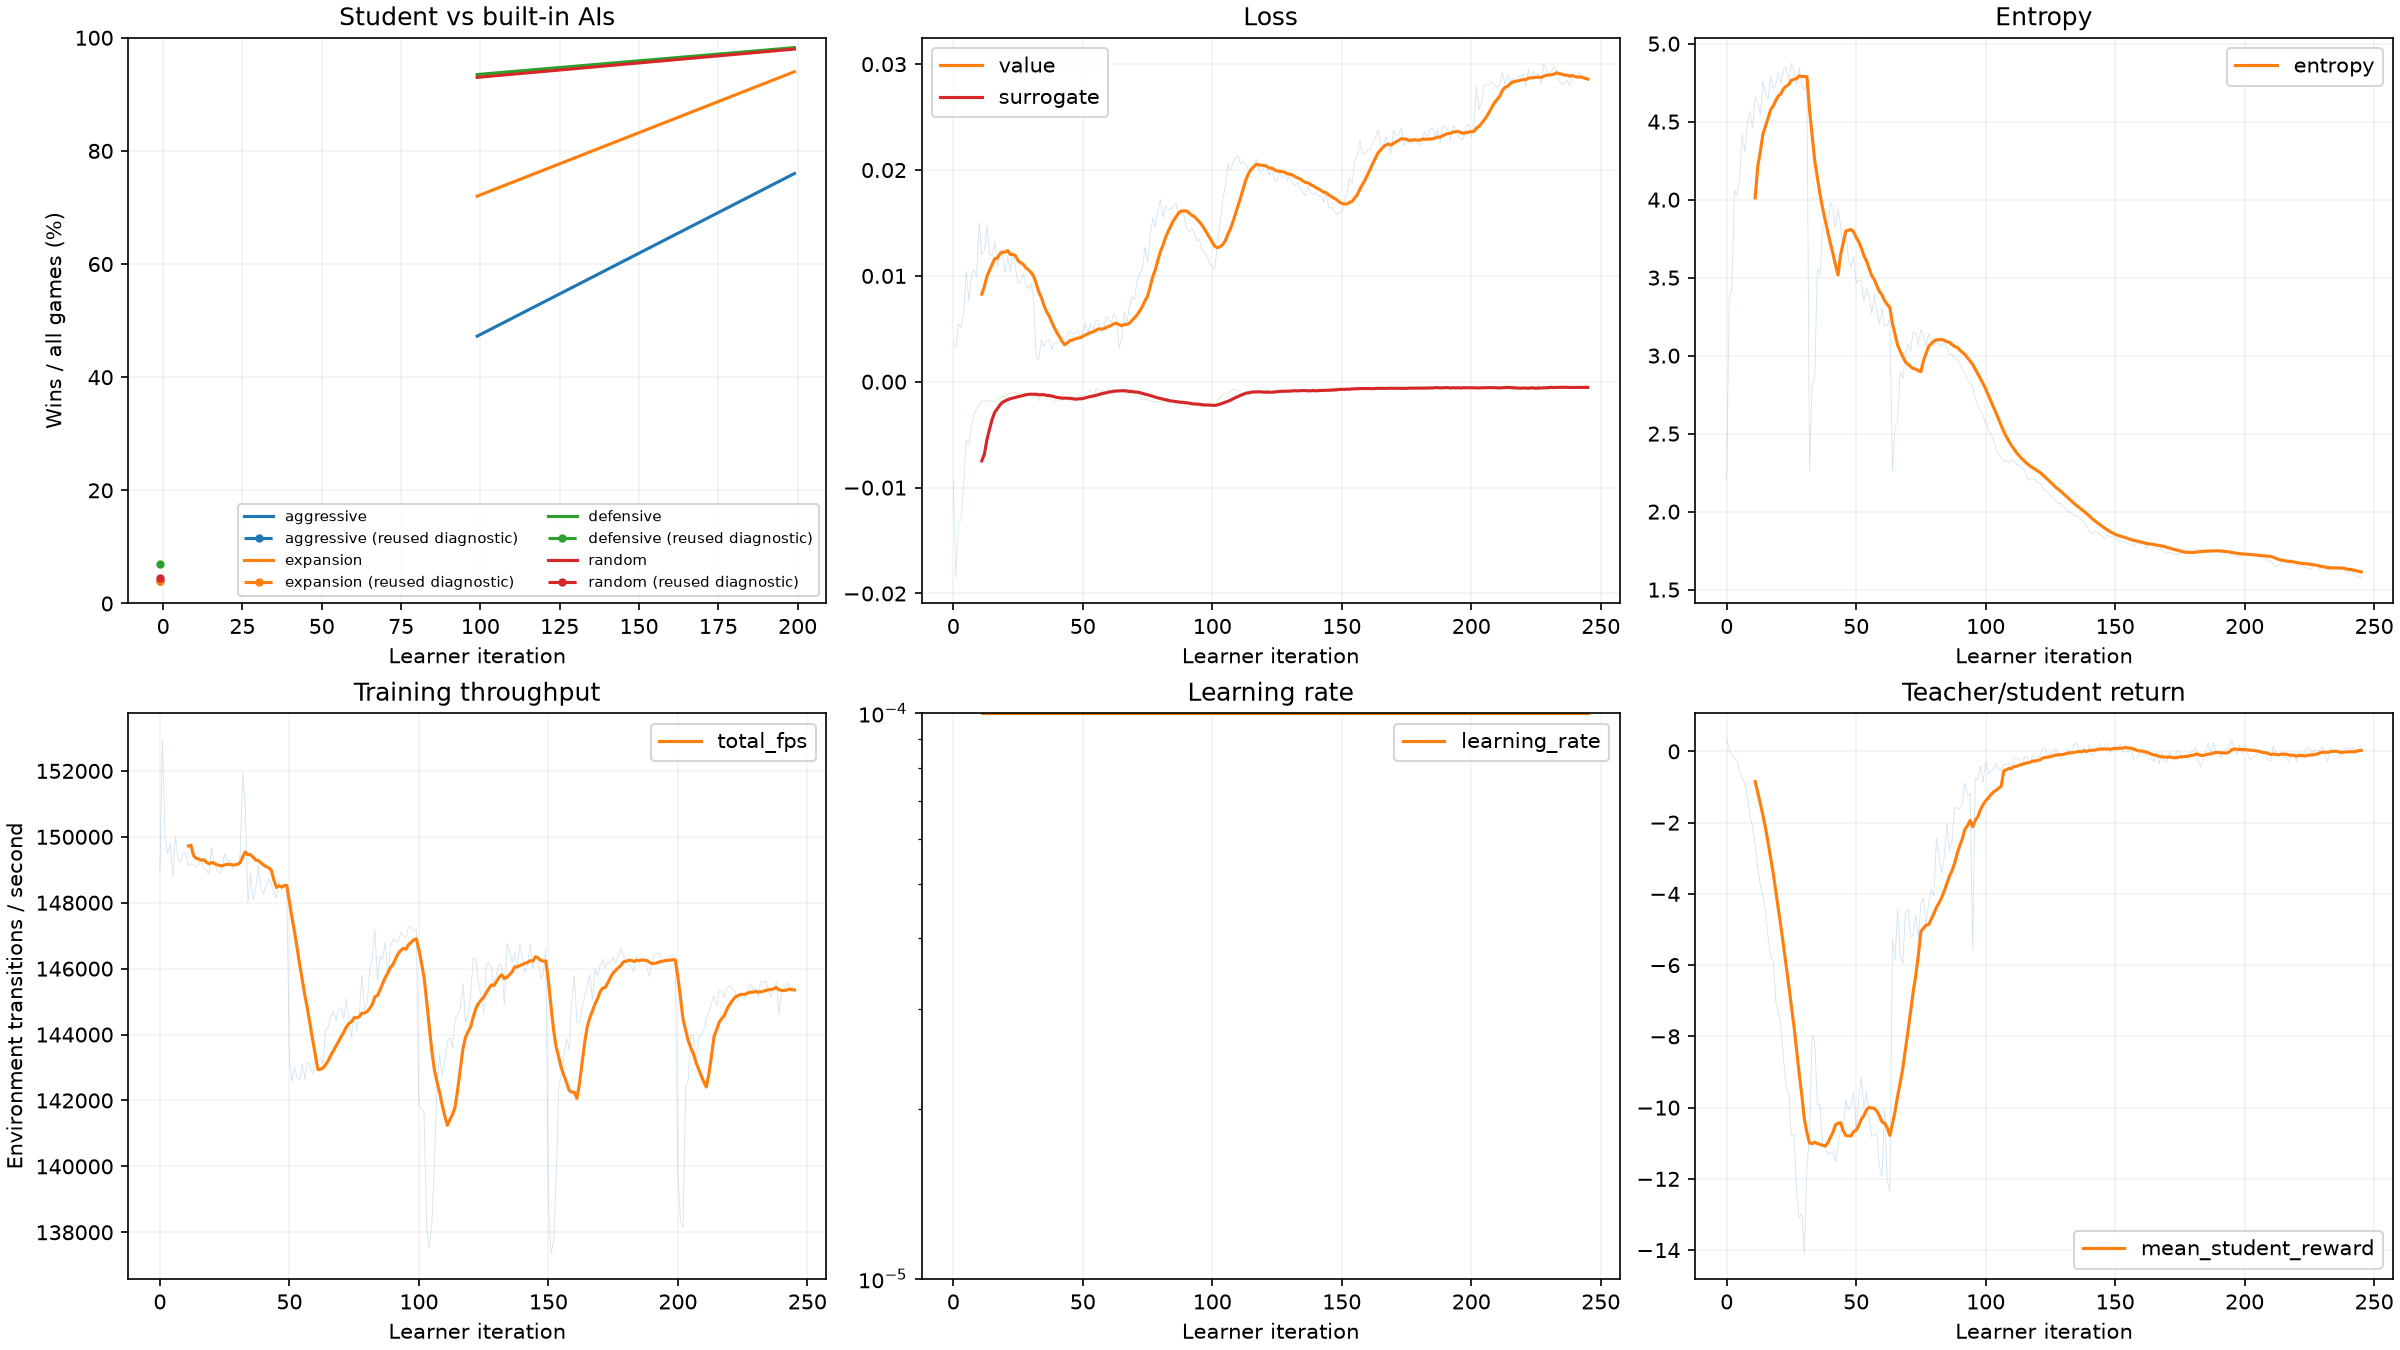
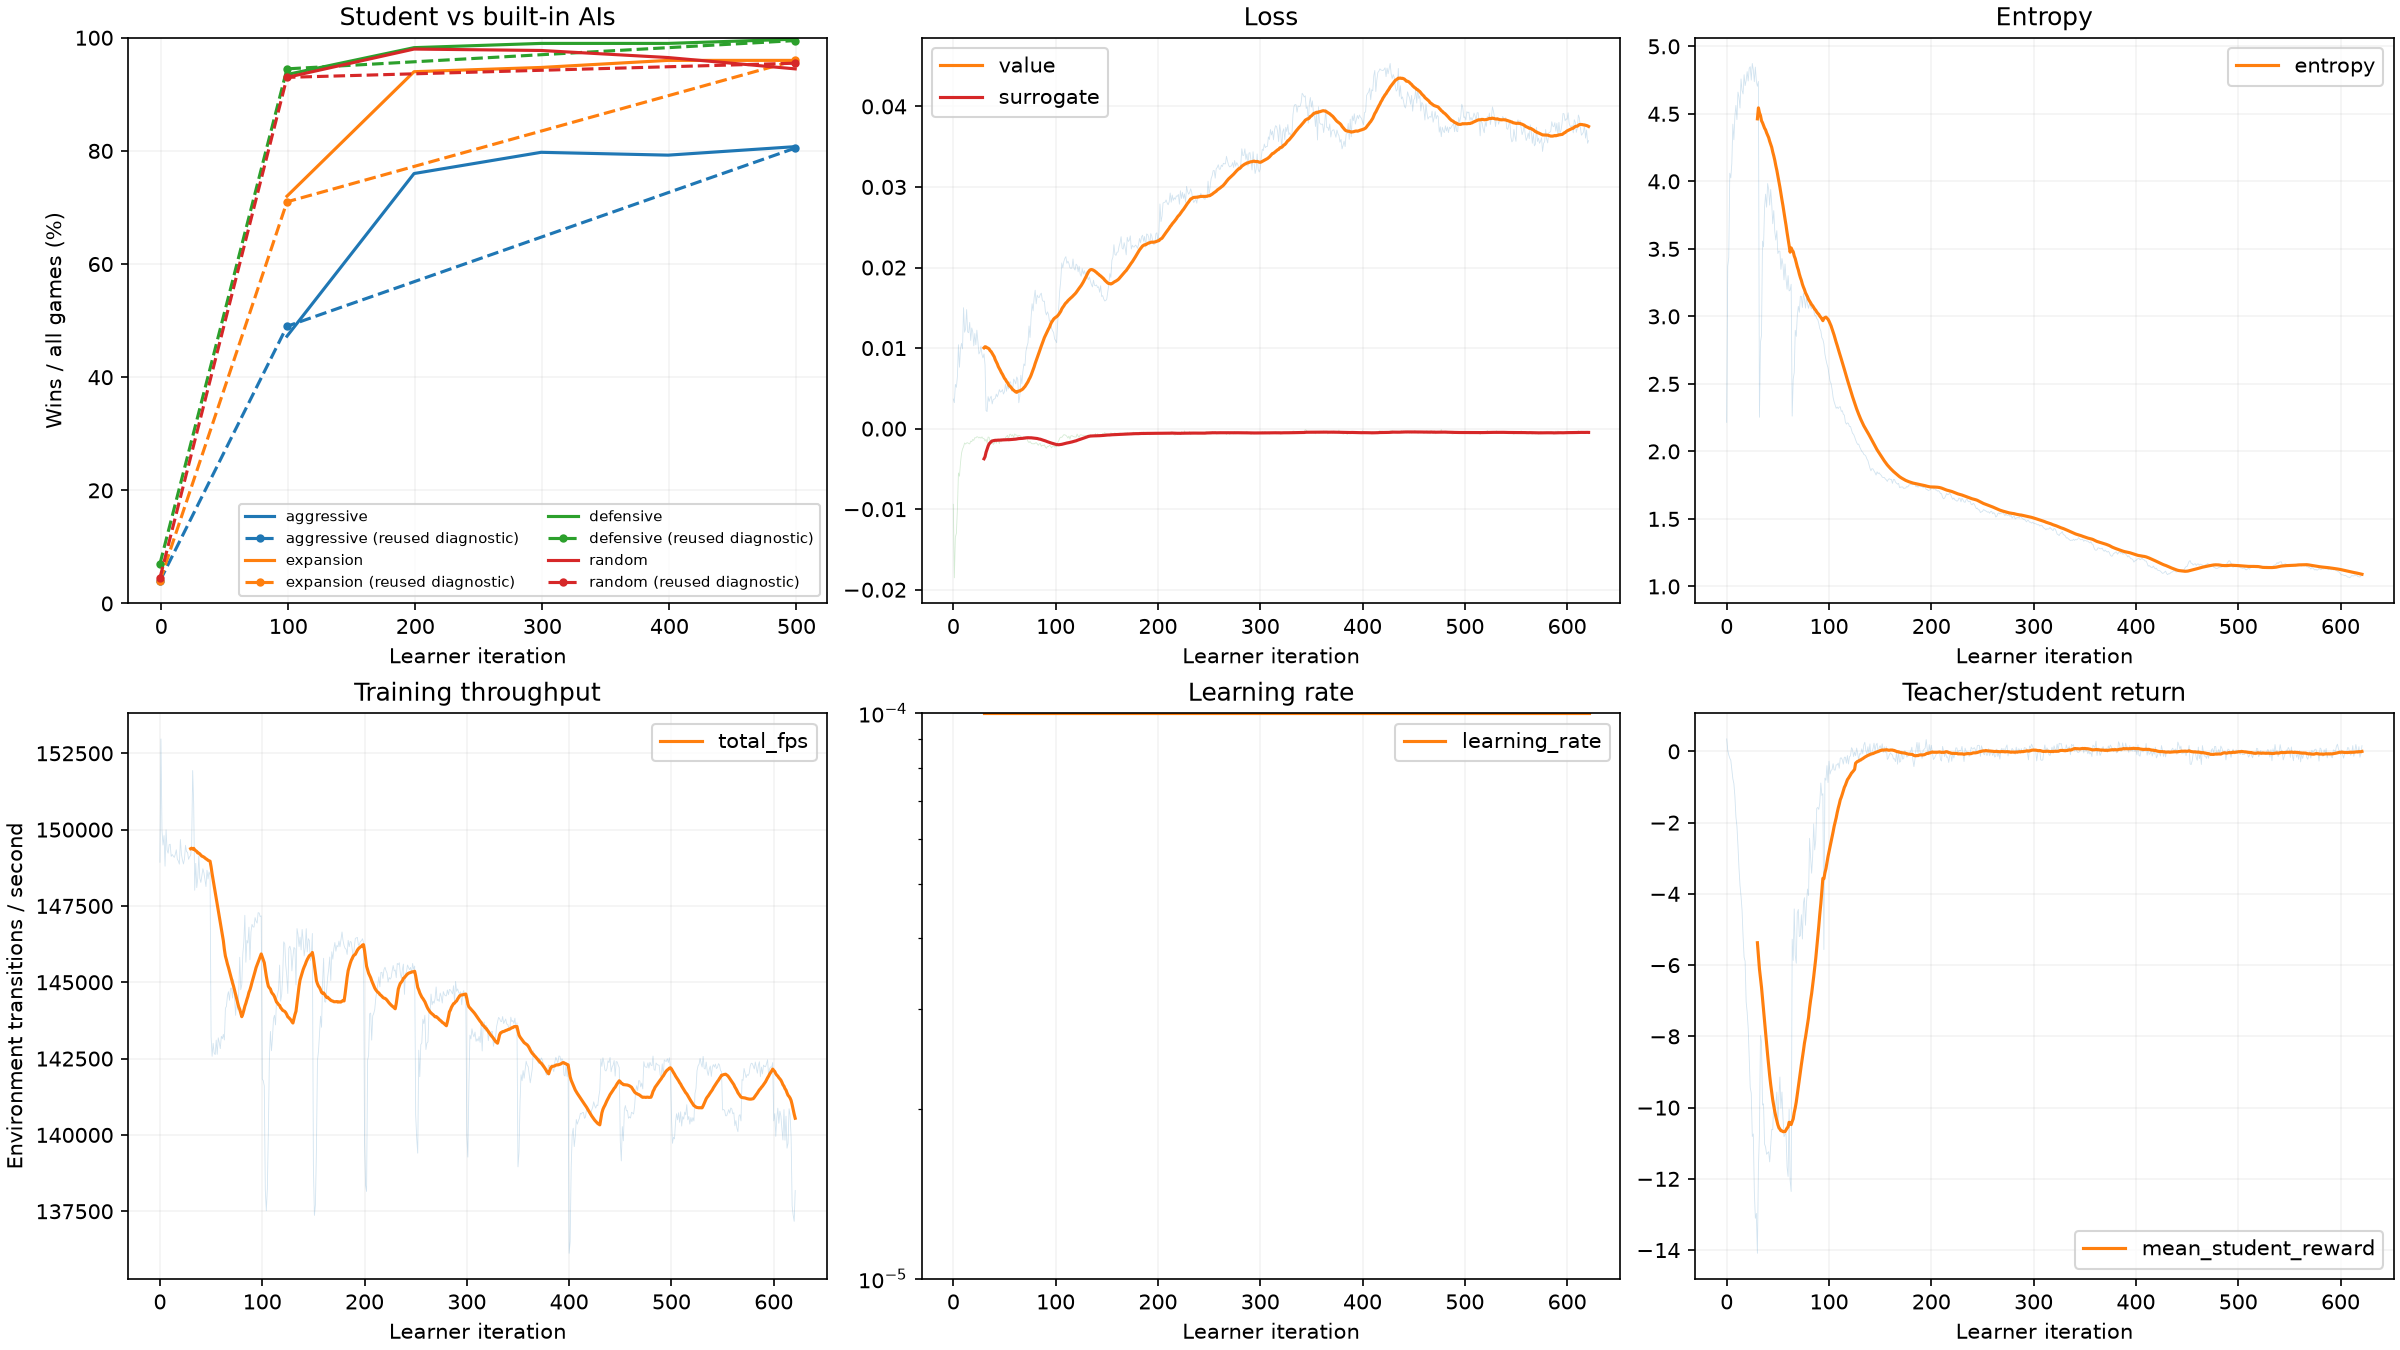
docs(rl): record v15 middle checkpoint comparison

diff --git a/doc/rl_train_log.md b/doc/rl_train_log.md
@@ -715,13 +715,20 @@ GPU smoke采用E4、N256/T4/B4/episode4/pool2/pub1，**3更新/3,072 transitions
 
[1 lines of base64/hex data omitted]
 
-早期选模评估如下（seed271828、每AI400局）。训练仍在进行，两点均未达到目标；不据此判断版本最终优劣，也没有使用新heldout种子。
+中期选模评估如下（seed271828、每AI400局）。训练仍在进行，五点均未达到目标；不据此判断版本最终优劣，也没有使用新heldout种子。
 
 | 更新 | aggressive | expansion | defensive | random |
 | ---: | ---: | ---: | ---: | ---: |
 | 99 | 47.25% | 72% | 93.5% | 93% |
 | 199 | 76% | 94% | 98.25% | 98% |
+| 299 | 79.75% | 94.75% | 99% | 97.75% |
+| 399 | 79.25% | 96% | 99% | 96.5% |
+| 499 | 80.75% | 96% | 99.75% | 94.5% |
 
-下图仅截至前两个已完成选模点和约250次训练更新，虚线初始点属于另一复用开发赛程。胜率明显上升，entropy逐步下降；当前训练吞吐约14.5万transitions/s，loss有限。继续训练至少1小时，再结合后续胜率判断平台。人工诊断权重目前initial/99共2份，上限4；99的800局复用开发评估另行运行，不重复发布评估或增加模型副本。
+99的新800局复用开发评估为 **49% / 71% / 94.5% / 93%**；24个指标在TB99各写一次。与v11/99逐项同身份配对后，胜率差为+2/−3.5/−1.5/−1.5pp。前三个selector点与v11同更新配对，aggressive优势从+2/+2.25缩到+0.25pp（299多赢1局），其他对手有升有降，未见持续全面优势；摘要 `outputs/rl_iteration_audit/v15_early_selector_comparison.json`。重复地图和单训练轨迹不能支持因果结论。
 
-![v15早期曲线：只含99/199选模点，训练尚未结束](rl_train_figures/v15.png)
[1 lines of base64/hex data omitted]
+
+下图只含截至499的五个选模点；虚线−1/99/499属于另一复用开发赛程，72个tag/step组合各写一次。aggressive升速已变缓，random中期回落；entropy下降、loss有限，吞吐约14.2–14.6万transitions/s。训练继续至至少1小时，再结合后续曲线判断平台。人工诊断权重initial/99/499共3份，上限4；不新增同权重副本或消耗heldout种子。
+
+![v15中期曲线：截至499选模，训练尚未结束](rl_train_figures/v15.png)
